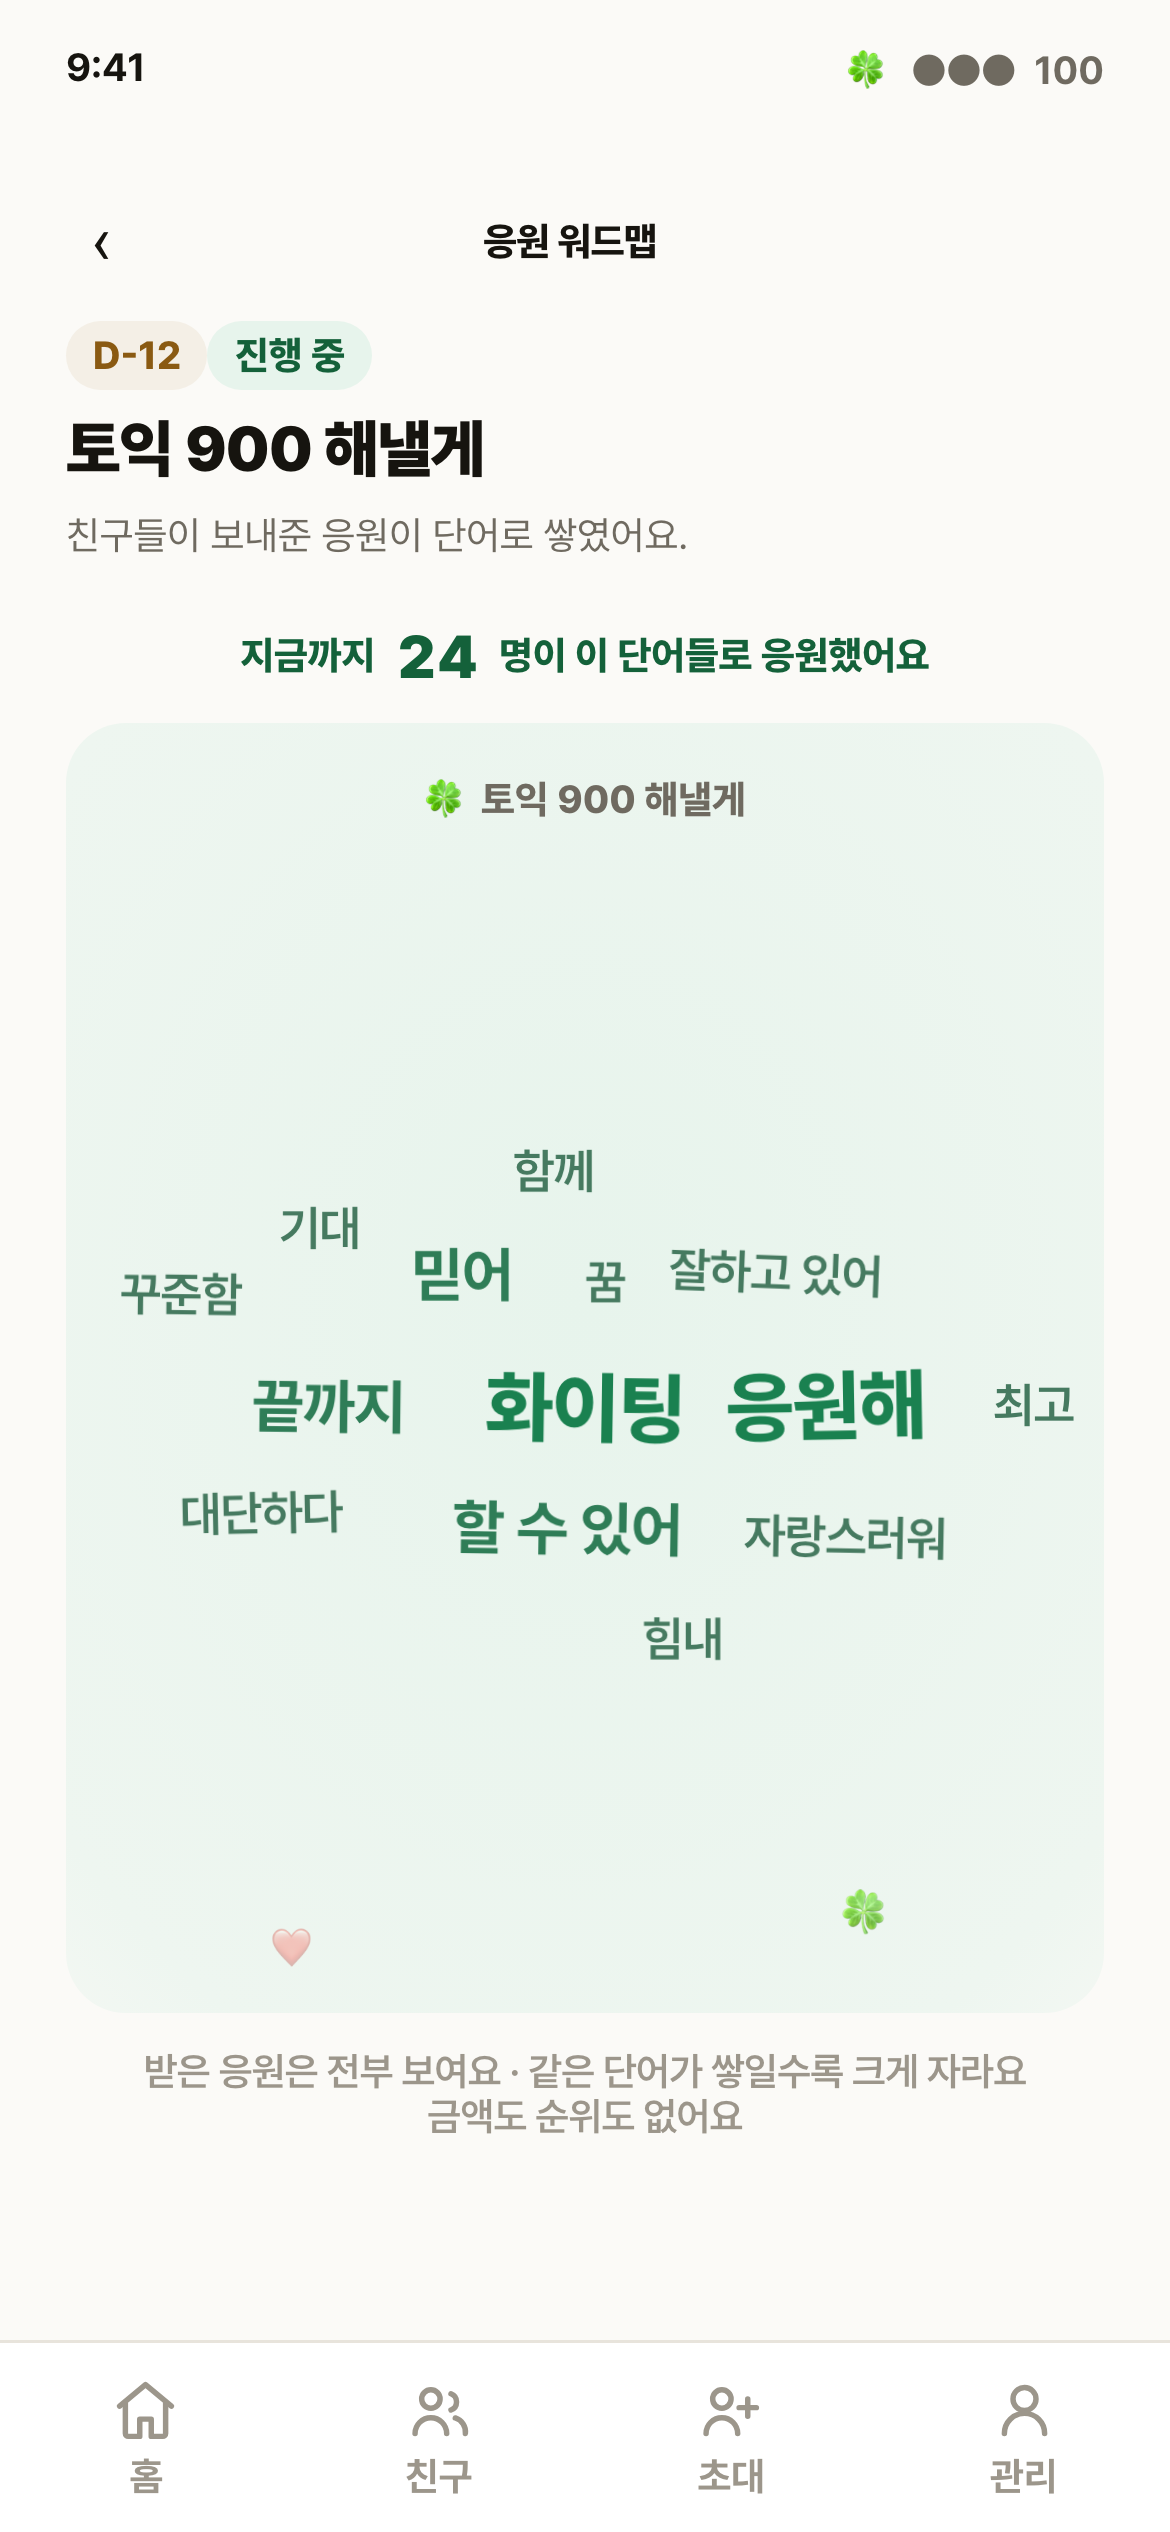
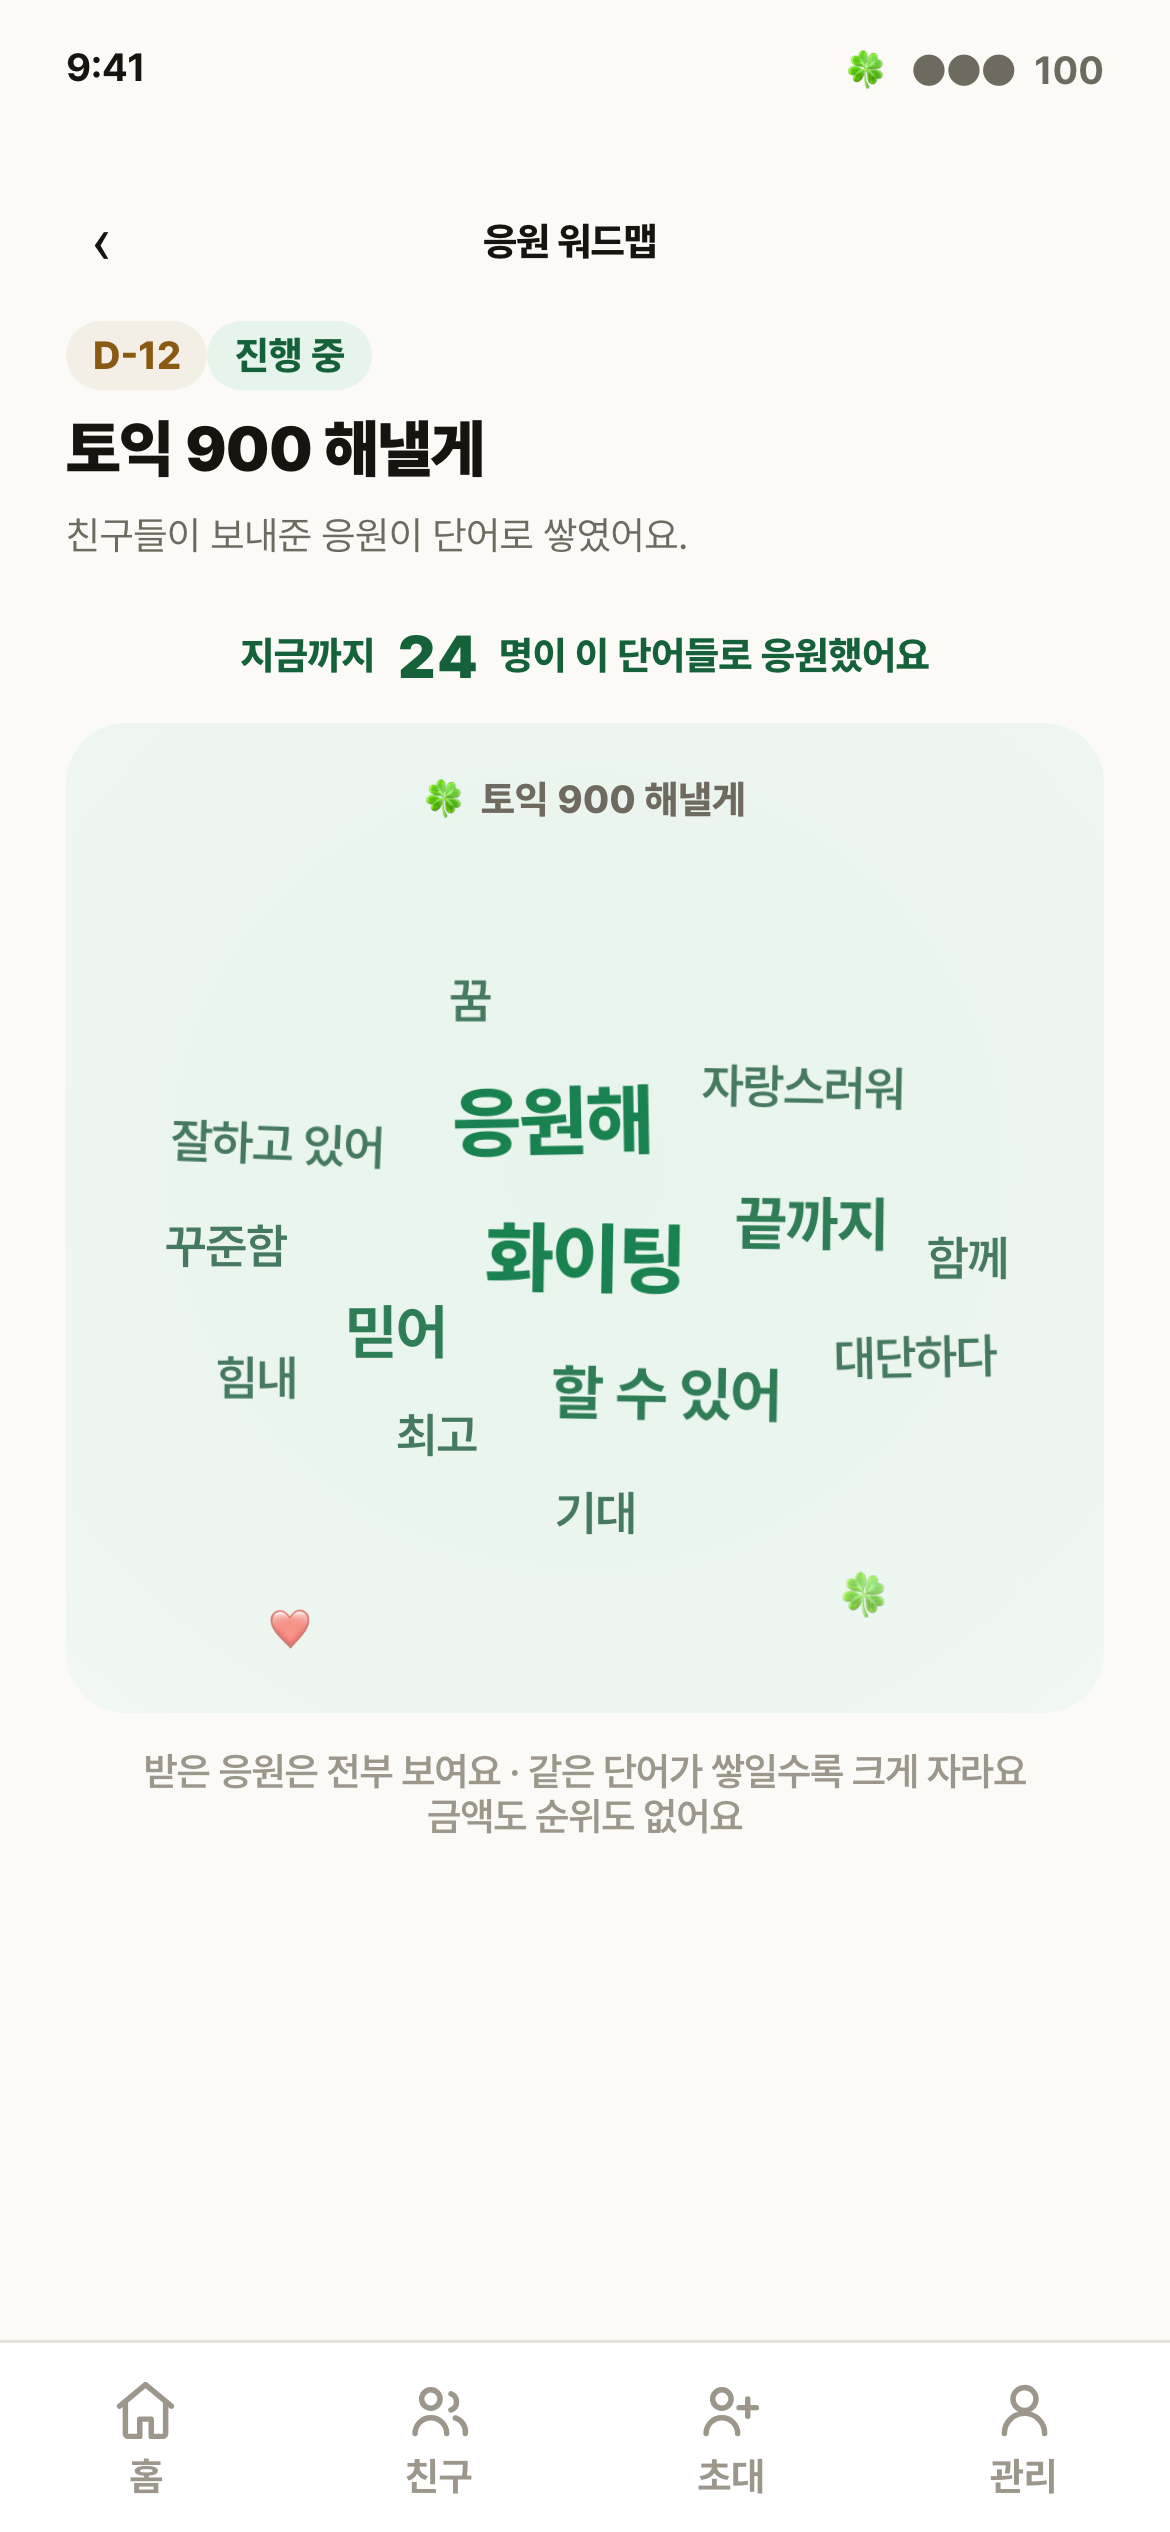
design(v2): 워드맵 분포 균형 교정 · 디자인 README 를 v2 current/target 으로 갱신
- 워드맵 나선의 세로 압축을 0.60 → 0.72 로 풀고 전체보기 패널 높이를 330px 로
  되돌렸다. 패널을 크게 잡으면 나선이 가운데만 쓰고 위아래가 비었다.
  재실측: 겹침 0 유지, 서로 다른 세로 행 최소 3 → 5 로 개선(14단어 11행).
- docs/design/README.md 를 §16 규격대로 갱신. 지금 current(운영 v1)와
  target(v3 프로토타입)을 표로 지목하고, 읽는 순서와 캡처 규격(3배·모션 GIF)을
  박았다. 종전 README 는 2026-09-12 상태로 멈춰 v2 작업을 가리키지 못했다.
- 캡처 16종과 모션 GIF 5종 재생성. 판정표 수치를 최종 실측으로 갱신.

검증: verify-compare-pairs 8쌍 · capture-res-check 16/16 ·
check-prototype-changelog PASS · GIF 프레임차 전부 비영 · pageerror 0

EV-ID: ev-20261016-18

Claude-Session: https://claude.ai/code/session_0114AS5uArgaRbLahSVnxXe8

diff --git a/docs/design/prototypes/social-viral-loop-v3-opus5.html b/docs/design/prototypes/social-viral-loop-v3-opus5.html
@@ -1543,7 +1543,7 @@
         </div>
         <div class="wm-count" style="margin-top:18px"><span>지금까지</span> <span class="n" data-count="24">24</span> <span>명이 이 단어들로 응원했어요</span></div>
         <!-- D-025-F 전체 표시(12개 상한 폐기) + D-027-E 떠다니는 배치 -->
-        <div class="wordmap cloud" id="wordmap3" style="margin-top:10px;min-height:430px">
+        <div class="wordmap cloud" id="wordmap3" style="margin-top:10px;min-height:330px">
           <div class="wm-goalword">🍀 토익 900 해낼게</div>
           <span class="wm-word s3">화이팅</span>
           <span class="wm-word s3">응원해</span>
@@ -3050,7 +3050,7 @@
       let t=rnd()*Math.PI*2, r=i===0?0:8, px=null, py=null;
       for(let step=0; step<1400; step++){
         const ax=cx+Math.cos(t)*r*1.18-b.w/2;
-        const ay=cy+Math.sin(t)*r*0.60-b.h/2;
+        const ay=cy+Math.sin(t)*r*0.72-b.h/2;
         const qx=Math.min(Math.max(ax,x0),Math.max(x0,x1-b.w));
         const qy=Math.min(Math.max(ay,y0),Math.max(y0,y1-b.h));
         const rect={x:qx-6,y:qy-5,w:b.w+12,h:b.h+10};

diff --git a/docs/design/README.md b/docs/design/README.md
@@ -1,14 +1,47 @@
 # 디자인 진입점
 
-status: baseline-incomplete
-updated: 2026-09-12
+status: v2-design-revision-2 awaiting-chairman-review
+updated: 2026-10-16
 
 이 폴더가 해낼게 디자인 자료의 canonical 경로다. 전체 규칙의 정본은 이 폴더의 `DESIGN.md`가 가리키는 레포 루트 `DESIGN.md`다. 기존 `docs/design/WIREFRAMES/`, `artifacts/`는 보존하며 아래 문서에서 연결한다. 기존에 `docs/user-flow.md`에 있던 전수 플로우는 이 폴더의 `user-flow.md`로 승격했다.
 
-- 규칙: `DESIGN.md`
+## 지금 무엇이 current 이고 무엇이 target 인가
+
+| 구분 | 무엇 | 경로 |
+|---|---|---|
+| **target (심사 대기)** | V2 소셜 바이럴 루프 프로토타입 v3 — 보드 메모 D-027-A~G 반영본 | `prototypes/social-viral-loop-v3-opus5.html` |
+| 심사 보드 | 전/후 대조 + 모션 GIF + 화면별 메모·선택 + 전체 일괄 복사 | `boards/v2-design-revision-v2-opus5.html` |
+| 판정표 | 지시 대 반영 전수표, 기계 실측, design-review 등급 | `../qa/v2-design-revision-v2-opus5.md` |
+| 지난 판 | v2(2026-10-16 01:5x 2차 지시 반영분). 대조용으로만 쓴다 | `prototypes/social-viral-loop-v2-opus48.html` |
+| current (운영 배포) | v1 환전 라인. V2 는 아직 제품 코드에 반영하지 않았다(D-026-A) | `web/src` |
+
+**V2 는 design 단계다.** 회장 승인 전에는 제품 코드를 바꾸지 않는다. 승인 이후 eng-design → build 로 내려간다.
+
+## 읽는 순서 (디자인 착수 0스텝)
+
+1. 이 파일 — 지금 current 와 target
+2. `ui-architecture.md` — 공유 셸·화면군·내비게이션·반응형 규칙 (개별 화면보다 먼저)
+3. `screen-inventory.md` — 화면 ID·역할·상태·viewport
+4. `captures/`의 manifest, 그리고 최신 작업 캡처는 `boards/shots/v2-design-revision-v2/`
+
+## 규칙 문서
+
+- 전체 규칙: `DESIGN.md`
 - 구조: `ui-architecture.md`
 - 화면 목록: `screen-inventory.md`
 - 흐름: `user-flow.md`
-- 실제 캡처: `captures/`의 manifest
+- 하단탭 노출 기준: `standard-bottom-tab.md` (하단탭 유지 화면에 전역 푸터 금지가 7항)
+- UX writing·줄바꿈: `standard-ux-writing.md`
+- 워드맵 키워드 추출: `standard-wordmap-keyword.md`
+- 친구 관계 방향 표기: `standard-friend-relationship-direction.md`
 
-현재 실제 배포 baseline은 역할·viewport별 조인이 끝나지 않아 미검증이다.
+## 회장 지시 원문 박제
+
+- `chairman-directives-v2-20261015.md` — 1·2차 화면별 지시(D-025·D-026)
+- `chairman-board-memos-20261016.md` — 보드 메모 8건(D-027)
+
+## 캡처 규격
+
+390 CSS px × deviceScaleFactor **3 이상**(물리 1170px), 전체 스크롤 풀페이지. 1배 캡처는 `capture-res-check.sh` 가 반려한다(D-026-G). **모션이 있는 화면은 GIF 를 함께 낸다.** 정지 캡처로는 모션을 판정할 수 없다(D-027-A).
+
+현재 실제 배포 baseline 은 역할·viewport 별 조인이 끝나지 않아 여전히 미검증이다. V2 프로토타입은 390 만 실측했고 1024·1440 은 미확인이다.

diff --git a/docs/qa/v2-design-revision-v2-opus5.md b/docs/qa/v2-design-revision-v2-opus5.md
@@ -47,14 +47,14 @@ status: awaiting-chairman-review
 
 | 화면 | 단어 수 | 겹친 쌍 | 서로 다른 세로 행 | 패널 밖으로 나간 단어 | 부유 입자 |
 |---|---:|---:|---:|---:|---:|
-| 공개 목표 `wordmap2` | 10 | 0 | 5 | 0 | 5 |
-| 친구 상세 `wordmapBelong` | 7 | 0 | 6 | 0 | 5 |
-| 응원 워드맵 `wordmap3` | 14 | 0 | 8 | 0 | 5 |
-| 랜딩 `wordmapLanding` | 6 | 0 | 6 | 0 | 5 |
-| 목표 관리 `wordmapGd` | 8 | 0 | 3 | 0 | 5 |
-| 도파민 `wordmap` | 11 | 0 | 6 | 0 | 5 |
+| 공개 목표 `wordmap2` | 10 | 0 | 8 | 0 | 5 |
+| 친구 상세 `wordmapBelong` | 7 | 0 | 5 | 0 | 5 |
+| 응원 워드맵 `wordmap3` | 14 | 0 | 11 | 0 | 5 |
+| 랜딩 `wordmapLanding` | 6 | 0 | 5 | 0 | 5 |
+| 목표 관리 `wordmapGd` | 8 | 0 | 5 | 0 | 5 |
+| 도파민 `wordmap` | 11 | 0 | 7 | 0 | 5 |
 
-"서로 다른 세로 행" 이 2 이상이면 한 줄이 아니다. 최소값이 3이다. 좌표는 시드 고정이라 캡처가 매번 같은 배치로 재현된다.
+"서로 다른 세로 행" 이 2 이상이면 한 줄이 아니다. 최소값이 5다. 좌표는 시드 고정이라 캡처가 매번 같은 배치로 재현된다.
 
 ### 2-2 콘솔 오류
 
@@ -73,11 +73,13 @@ status: awaiting-chairman-review
 
 | GIF | 프레임 | 0번 프레임 대비 평균 픽셀차(1/4·1/2·끝) |
 |---|---:|---|
-| landing | 34 | 2.34 / 2.70 / 2.13 |
-| mywordmap | 34 | 1.93 / 2.13 / 2.39 |
-| dopamine | 40 | 2.02 / 1.79 / 0.96 |
-| status | 34 | 1.05 / 1.01 / 1.00 |
-| goalpublic | 34 | 측정 전 구간에서 비영 |
+| landing | 34 | 3.15 / 3.03 / 3.47 |
+| mywordmap | 34 | 2.56 / 2.54 / 3.00 |
+| dopamine | 40 | 3.10 / 3.03 / 2.71 |
+| status | 34 | 2.09 / 2.01 / 2.08 |
+| goalpublic | 34 | 1.44 / 2.32 / 2.49 |
+
+전부 비영이다. 값이 0 이면 정지 이미지를 모션이라고 낸 것이다.
 
 업적과 공개 목표는 모션 구간이 첫 화면 아래에 있어, 해당 영역으로 스크롤한 뒤 애니메이션을 재생해 녹화했다. 그러지 않으면 움직이지 않는 상단만 찍힌다.
 
